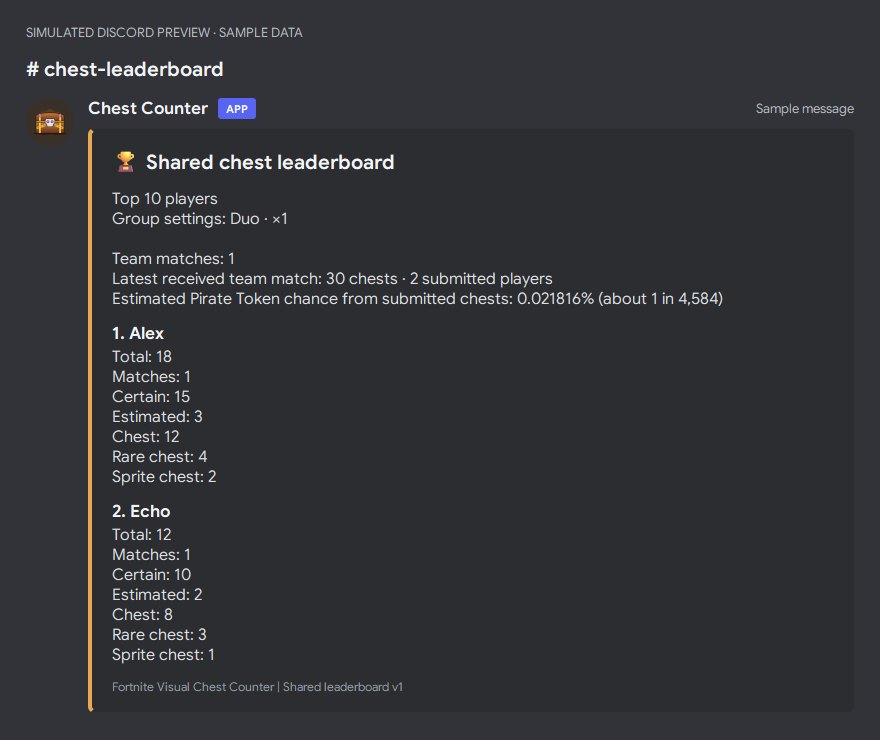
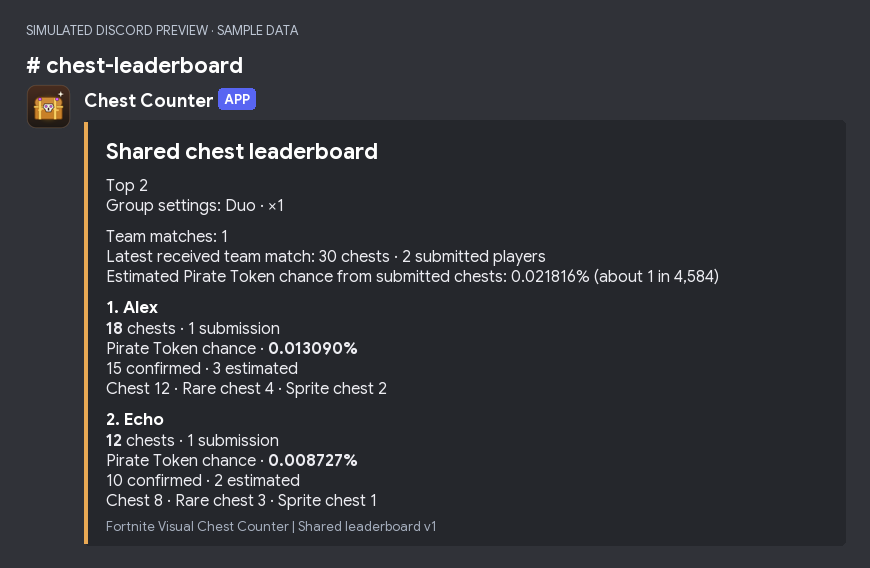
Verify stacked chest notifications and show player token odds in Discord

Changed region(s): [[0.031, 0.0299, 0.8379, 0.9577], [0.869, 0.1197, 0.9621, 0.1796]]

diff --git a/packaging/README.html b/packaging/README.html
@@ -65,7 +65,7 @@
 
 <h2 id="discord">Group and Discord</h2>
 <ol><li>Each player runs their own app and capture. Save a distinct player name and the same shared webhook under <b>Group → Player setup</b>.</li><li>Choose <b>Host</b> on the bot PC and <b>Guest</b> on the other PCs. Enable <b>Share matches with my group</b> where you want to contribute.</li><li>The Host saves the Application ID and token under <b>Bot Discord</b>, invites the bot and starts it.</li><li>With the bot online, choose a public leaderboard channel and click <b>Publish leaderboard</b>. Share <b>Copy sync ID</b> with Guests, who save it under <b>Shared data message</b>.</li></ol>
-<p>The leaderboard shows each player’s chests from matches shared to Discord. The Match history + live overlay uses your local match history, linked teammate counts and the current counter.</p>
+<p>The public leaderboard and <code>/chests</code> show counts, chest types and a cumulative Pirate Token estimate from shared chests and their saved boosts. The team estimate in the header covers the latest received team match. The Match history + live overlay uses your local match history, linked teammate counts and the current counter.</p>
 <p>The webhook receives contributions in its feed channel. The public bot leaderboard can be published in another channel. Live counts are coalesced into updates every five to eight seconds. Matching session fingerprints group teammates, and the saved match supplies the final result.</p>
 <p>Guests with sharing enabled follow the Host's published mode and boost. They can read the last published data when the bot is offline. Turn sharing off for local-only matches and personal settings.</p>
 <h3>Permissions</h3>

diff --git a/src/fortnite_chest_counter/estimator.py b/src/fortnite_chest_counter/estimator.py
@@ -248,6 +248,9 @@ class ChestEstimator:
         self.french_saturated_reads = deque()
         self.french_bright_reads = deque()
         self.french_exp_reads = deque()
+        self.french_exp_candidates = deque()
+        self.recent_counted_popups = deque()
+        self.last_french_exp = -float("inf")
         self.french_type_history = deque()
         self.french_scaled_reads = {}       # no votes shared between different glyph scales
         self.french_plane = None           # this frame's winning (scale, RGB ROI, mask)
@@ -585,7 +588,9 @@ class ChestEstimator:
                                        round(roi.shape[0] * bright_scale)))
             recovered = self._recover_bright_french(t, bright_roi)
             if recovered is None:
-                recovered = self._recover_bright_exp_line(t, bright_roi)
+                exp_line = self._recover_bright_exp_line(t, bright_roi)
+                if exp_line is not None:
+                    self._queue_french_exp(t, exp_line, score, roi)
             if recovered is not None:
                 ry, rx, kind, confirmed = recovered
                 recovered = (round(ry / bright_scale), round(rx / bright_scale), kind, confirmed)
@@ -780,6 +785,17 @@ class ChestEstimator:
         if len(aligned) < FRENCH_SCALED_CONFIRM_FRAMES or chest_types.NORMAL not in aligned:
             return None
         return y0 + y + h // 2, x0 + x + w // 2, chest_types.NORMAL, False
+
+    def _queue_french_exp(self, t, line, score, roi):
+        if t - self.last_french_exp > 0.75:
+            y, x, kind, _ = line
+            candidate = {"onset": t, "score": score, "y": round(y / 0.9), "x": round(x / 0.9),
+                         "template": "fr:COFFRE", "french_type": kind, "bright_exp": True,
+                         "scaled": {"blur": score, "scale": 0.9}}
+            if SAVE_SNAPSHOTS:
+                candidate["roi"] = roi.copy()
+            self.french_exp_candidates.append(candidate)
+        self.last_french_exp = t
 
     def _recover_saturated_french(self, t, roi, mask):
         """Recover a bare French XP notification when the lavender mask is saturated."""
@@ -992,12 +1008,31 @@ class ChestEstimator:
         for p in list(self.pending_popups):
             if final or p.get("until", p["onset"] + POPUP_FINISH_DELAY) <= t:
                 self.pending_popups.remove(p)
+                if p.get("template") == "fr:COFFRE" and p.get("french_type", chest_types.UNKNOWN) == chest_types.UNKNOWN:
+                    matches = [line for line in self.french_exp_candidates
+                               if abs(line["onset"] - p["onset"]) <= 1.0
+                               and abs(line["y"] - p["y"]) <= 6 and abs(line["x"] - p["x"]) <= 12]
+                    if len(matches) == 1:
+                        p["french_type"] = matches[0]["french_type"]
                 out.append(self._popup_event(p))
         for i in list(self.pending_interactions):
             if final or i["t"] + INTERACTION_FINISH_DELAY <= t:
                 self.pending_interactions.remove(i)
                 if not i["merged"]:
                     out.append(self._interaction_event(i))
+        if self.french_template is not None:
+            self.recent_counted_popups.extend(e["time"] for e in out if e["approx_counted"])
+            while self.recent_counted_popups and t - self.recent_counted_popups[0] > 7.0:
+                self.recent_counted_popups.popleft()
+            while self.french_exp_candidates and (final or t - self.french_exp_candidates[0]["onset"] >= 3.25):
+                candidate = self.french_exp_candidates.popleft()
+                onset = candidate["onset"]
+                if any(abs(stamp - onset) <= 1.35 for stamp in self.recent_counted_popups):
+                    continue
+                event = self._popup_event(candidate)
+                out.append(event)
+                if event["approx_counted"]:
+                    self.recent_counted_popups.append(onset)
         return sorted(out, key=lambda e: e["time"])
 
     def _object_support(self, a, b):
@@ -1081,6 +1116,8 @@ class ChestEstimator:
             adjusted, certain, approx = "MEDIUM", False, True
             reason = (f"scale-aware pop-up: blurred {p['template']} match {scaled['blur']:.2f} at x{scaled['scale']} "
                       f"(unscaled exact match {p['score']:.2f}) -> MEDIUM, counted approx only")
+            if p.get("bright_exp"):
+                reason = "French COFFRE and EXP glyph aligned across three frames -> MEDIUM"
             if p.get("saturated_french"):
                 reason = "French COFFRE and EXP header aligned across three frames on saturated background -> MEDIUM"
             if scaled.get("confirmed"):
@@ -1100,7 +1137,8 @@ class ChestEstimator:
                 reason = f"stacked pop-up: {step} -> MEDIUM, counted approx only"
             else:
                 reason = f"stacked pop-up: {step}; " + reason
-        if (self.scaled_templates or self.small is not None) and inc is None and not p.get("qualified_french") and (approx or p["template"] != PORTUGUESE_POPUP):
+        if (self.scaled_templates or self.small is not None) and inc is None and not (
+                p.get("qualified_french") or p.get("bright_exp")) and (approx or p["template"] != PORTUGUESE_POPUP):
             self._vote_scale(p)
         if not approx:
             reason += "; NOT counted"

diff --git a/src/fortnite_chest_counter/discord_bot.py b/src/fortnite_chest_counter/discord_bot.py
@@ -14,7 +14,7 @@ from discord.ext import tasks
 
 from fortnite_chest_counter import discord_scoreboard, paths, settings
 
-from fortnite_chest_counter.discord_group import GROUP_TYPE_LABELS, GroupStore
+from fortnite_chest_counter.discord_group import GroupStore
 
 
 def register_commands(tree, guild, totals, ready, publish_board=None, board_settings=None):
@@ -69,11 +69,12 @@ def register_commands(tree, guild, totals, ready, publish_board=None, board_sett
         if player is None:
             team = await asyncio.to_thread(totals.team_summary)
             details.append(f"Team matches: {team.matches:,}")
+        details.append(f"Pirate Token chance · **{row.token_chance}**")
         if row.certain is not None:
-            details.append(f"Recorded breakdown: {row.certain:,} certain · {row.confirmed_total - row.certain:,} estimated")
-        if row.chest_types:
-            details.append(" · ".join(f"{label}: {row.chest_types[key]:,}" for key, label in GROUP_TYPE_LABELS.items()
-                                      if key in row.chest_types))
+            details.append(f"{row.certain:,} confirmed · {row.confirmed_total - row.certain:,} estimated")
+        types = discord_scoreboard.type_breakdown(row.chest_types)
+        if types:
+            details.append(types)
         if row.adjustment:
             details.append(f"Manual adjustment: {row.adjustment:+,}")
         await reply(interaction, "Chests opened", "\n".join(details))
@@ -93,7 +94,7 @@ def register_commands(tree, guild, totals, ready, publish_board=None, board_sett
             return
         players, team = await asyncio.to_thread(totals.board)
         settings = board_settings() if board_settings is not None else None
-        embed = discord_scoreboard.make_embed(discord_scoreboard.rows(players), team, settings=settings)
+        embed = discord_scoreboard.make_public_embed(players, team, settings=settings)
         if interaction.app_permissions.embed_links:
             await interaction.followup.send(embed=discord.Embed.from_dict(embed),
                                             allowed_mentions=discord.AllowedMentions.none())
@@ -262,7 +263,7 @@ class GuildBot(discord.Client):
             if settings is not None:
                 self.board_settings = settings
             players, team = await asyncio.to_thread(self.totals.board)
-            data = discord_scoreboard.make_embed(discord_scoreboard.rows(players), team, settings=self.board_settings)
+            data = discord_scoreboard.make_public_embed(players, team, settings=self.board_settings)
             same_channel = prior is not None and prior[0] == target
             if channel_id is None and self._last_board == (prior, data):
                 return f"https://discord.com/channels/{guild_id}/{target}/{prior[1]}"

diff --git a/src/fortnite_chest_counter/discord_scoreboard.py b/src/fortnite_chest_counter/discord_scoreboard.py
@@ -353,6 +353,30 @@ def make_embed(ranking, team=None, *, settings=None):
     return embed
 
 
+def type_breakdown(chest_types):
+    return " · ".join(f"{label} {chest_types[key]:,}"
+                      for key, label in discord_group.GROUP_TYPE_LABELS.items() if chest_types.get(key))
+
+
+def make_public_embed(players, team=None, *, settings=None):
+    """Readable bot output, separate from the webhook payload read by clients."""
+    players = players[:_MAX_RANKS]
+    embed = make_embed((), team, settings=settings)
+    if players:
+        embed["description"] = embed["description"].replace("No matches shared yet.", f"Top {len(players)}", 1)
+    for index, player in enumerate(players, 1):
+        submissions = "submission" if player.matches == 1 else "submissions"
+        lines = [f"**{player.total:,}** chests · {player.matches:,} {submissions}",
+                 f"Pirate Token chance · **{player.token_chance}**"]
+        if player.certain is not None:
+            lines.append(f"{player.certain:,} confirmed · {player.confirmed_total - player.certain:,} estimated")
+        types = type_breakdown(player.chest_types)
+        if types:
+            lines.append(types)
+        embed["fields"].append({"name": f"{index}. {player.name}", "value": "\n".join(lines), "inline": False})
+    return embed
+
+
 def publish(webhook, ident, ranking, team=None, *, settings=None, sessions=None, data_only=False):
     if ident:
         _decode(webhook, _request(webhook, f"/messages/{ident}", "GET"))

diff --git a/tests/test_discord_bot.py b/tests/test_discord_bot.py
@@ -412,10 +412,14 @@ def test_leaderboard_command_reuses_rich_embed_and_checks_publish_permission(tmp
             followup=SimpleNamespace(send=send),
         )
         await command.callback(interaction)
-        expected = discord_scoreboard.make_embed(discord_scoreboard.rows(players), team)
+        expected = discord_scoreboard.make_public_embed(players, team)
         actual = calls[-1][1]["embed"].to_dict()
         assert actual["title"] == expected["title"]
         assert actual["fields"] == expected["fields"]
+        assert "Pirate Token chance · **0.005818%**" in actual["fields"][0]["value"]
+        monkeypatch.setattr(store, "stats", lambda player: players[0])
+        await tree.get_command("chests", guild=guild).callback(interaction, player="Rin")
+        assert "Pirate Token chance · **0.005818%**" in calls[-1][1]["embed"].description
         assert actual["description"] == expected["description"]
         assert calls[0] == ("defer", {"thinking": True, "ephemeral": False})
 
@@ -514,7 +518,7 @@ def test_published_board_moves_updates_resumes_and_deletes(tmp_path, monkeypatch
         bot._feed_ready = True
         await bot.refresh_board.coro(bot)
         assert edits == [1000, 1000]
-        assert messages[1000]["fields"][0]["value"].startswith("Total: 12")
+        assert messages[1000]["fields"][0]["value"].startswith("**12** chests")
         await bot.publish_board(second.id)
         assert sent[-1] == (345, 1001)
         assert deleted == [1000]

diff --git a/tests/test_french_scaled_tracking.py b/tests/test_french_scaled_tracking.py
@@ -178,3 +178,26 @@ def test_bright_stacked_word_needs_its_exp_header():
     assert est._recover_bright_exp_line(.3, roi) is None
     assert est._recover_bright_exp_line(.4, roi) is None
     assert est._recover_bright_exp_line(.5, roi)[2:] == (CT.NORMAL, False)
+
+def test_bright_exp_fallback_waits_for_existing_popup_and_counts_only_unmatched(monkeypatch):
+    est = E.ChestEstimator()
+    calls = []
+
+    def popup(candidate):
+        calls.append(candidate)
+        return {"time": candidate["onset"], "approx_counted": True}
+
+    monkeypatch.setattr(est, "_popup_event", popup)
+    roi = np.zeros((182, 324, 3), dtype=np.uint8)
+    line = (70, 116, CT.NORMAL, False)
+    est._queue_french_exp(2.0, line, .7, roi)
+    est._queue_french_exp(2.2, line, .7, roi)
+    assert est._finish(3.0, False) == []
+    est.pending_popups.append({"onset": 1.9, "until": 4.0, "template": "fr:COFFRE", "y": 78, "x": 129})
+    assert est._finish(5.3, False) == [{"time": 1.9, "approx_counted": True}]
+    assert len(calls) == 1 and not calls[0].get("bright_exp")
+    assert calls[0]["french_type"] == CT.NORMAL
+    est._queue_french_exp(8.0, line, .7, roi)
+    assert est._finish(9.0, False) == []
+    assert est._finish(11.3, False) == [{"time": 8.0, "approx_counted": True}]
+    assert calls[-1]["bright_exp"]

diff --git a/src/fortnite_chest_counter/discord_group.py b/src/fortnite_chest_counter/discord_group.py
@@ -258,6 +258,11 @@ class Player:
         return recorded + (self.total - self.recorded) * base
 
 
+    @property
+    def token_chance(self):
+        return f"{-math.expm1(self.log_no_drop) * 100:.6f}%" if self.total else "0.000000%"
+
+
 def _combine(name, players, adjustment=0):
     kinds = Counter()
     recorded = confirmed_total = certain = matches = 0

diff --git a/docs/guides/matches-and-discord.md b/docs/guides/matches-and-discord.md
@@ -15,7 +15,7 @@ The Dashboard mode selector defaults to **Auto**. It reads the Battle Royale pla
 3. The Host starts the bot, chooses a **Leaderboard channel** and clicks **Publish leaderboard**. The dropdown lists text channels where the bot can view the channel, send messages and embed links.
 4. The Host uses **Copy sync ID**. Guests save that value under **Shared data message**. This feed message lets Guests read the same group data without receiving the bot token.
 
-The leaderboard ranks each player by the chests in their published results. **Match history + live** in the overlay uses your local match history, linked teammate counts and the current counter.
+The leaderboard ranks each player by the chests in their published results. The public board and `/chests` show a cumulative Pirate Token estimate from each player’s shared chests, using the saved boosts. The team estimate in the board header describes the latest received team match. **Match history + live** in the overlay uses your local match history, linked teammate counts and the current counter.
 
 The collection webhook and the public leaderboard have separate jobs. Submissions go to the webhook's feed channel. The bot can publish the visible board in a different channel. Publishing again in another channel moves the tracked board there. A channel permission failure leaves the previous publication available for retry.
 

diff --git a/docs/CHANGES.md b/docs/CHANGES.md
@@ -20,7 +20,7 @@ changes; the pull request links here. Versioned release notes describe published
 - Recover faint French chest popups from three aligned `COFFRE` and XP readings, as estimated openings.
   Read the actual digit on qualified rare rows through X4 so a temporary unreadable multiplier does not recount the stack.
 
-- Label the Group leaderboard as each player’s chests from matches shared to Discord. Distinguish it from the Match history + live overlay total.
+- Display each player’s cumulative Pirate Token estimate and compact chest breakdown on the public Discord board and in `/chests`. The Group leaderboard ranks chests from matches shared to Discord. Distinguish it from the Match history + live overlay total.
 - Recover French chest types from three consistent readings around a counted popup, including weaker frames and
   neighbouring HUD scales. These readings affect the type only. The opening threshold and confidence rules stay the same.
 

diff --git a/README.md b/README.md
@@ -84,7 +84,7 @@ One person runs the **Host** bot. Other players use **Guest**, their own name an
 
 | Command | Action |
 |---|---|
-| `/chests` | Show shared totals, or a player's stats. |
+| `/chests` | Show shared totals or a player's counts and cumulative Pirate Token estimate. |
 | `/leaderboard` | Show the full current ranking. |
 | `/leaderboard publish:true` | Publish or move the auto-updating board to the current channel. Requires Manage Server. |
 | `/add` | Correct a player's total. Requires Manage Server. |

diff --git a/docs/previews/index.md b/docs/previews/index.md
@@ -30,7 +30,7 @@ These are captures of the application using sample data. Click an image to view 
 
 ## Discord simulations
 
-These are local renderings of sample data. The leaderboard uses the app's embed payload.
+These are local renderings with sample data. The leaderboard uses the bot’s public embed payload and shows each player’s cumulative Pirate Token estimate.
 
 ![Simulated Discord leaderboard](discord-leaderboard.png)
 
